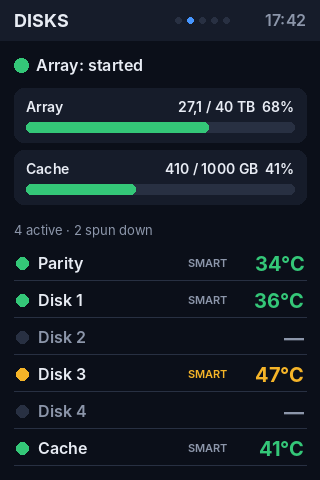
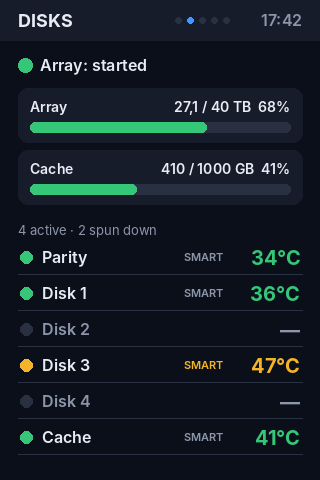
Ekrany LCD: margines 18 px od krawędzi (dół i prawa strona)
Uwaga z makiety: treść była za blisko dolnej i prawej krawędzi ekranu.

Claude-Session: https://claude.ai/code/session_01KdmNeRTRFZRJ18TRbeokR1

diff --git a/app/ekrany/rysuj.py b/app/ekrany/rysuj.py
@@ -9,6 +9,8 @@ from pathlib import Path
 from PIL import Image, ImageDraw, ImageFont
 
 W, H = 320, 480
+# Margines od krawędzi ekranu (ramka obudowy zasłania skrajne piksele).
+M = 18
 # Czcionka Inter (licencja OFL) z pakietu fonts-inter instalowanego w obrazie Dockera.
 FONT_DIR = os.environ.get("LCD_CZCIONKI", "/usr/share/fonts/opentype/inter/").rstrip("/") + "/"
 
@@ -77,8 +79,8 @@ def kolor_progu(wartosc, uwaga, alarm):
 
 def naglowek(d, tytul, indeks, dane):
     d.rectangle((0, 0, W, 40), fill=KOLORY["karta"])
-    d.text((14, 20), tytul, font=font(18, "Bold"), fill=KOLORY["tekst"], anchor="lm")
-    d.text((W - 14, 20), dane["godzina"], font=font(16, "SemiBold"), fill=KOLORY["szary"], anchor="rm")
+    d.text((M, 20), tytul, font=font(18, "Bold"), fill=KOLORY["tekst"], anchor="lm")
+    d.text((W - M, 20), dane["godzina"], font=font(16, "SemiBold"), fill=KOLORY["szary"], anchor="rm")
     # kropki widoków (który ekran z pięciu)
     for i in range(5):
         x = W // 2 + 18 + i * 12
@@ -105,77 +107,81 @@ def ekran_system(t, dane):
     img = Image.new("RGB", (W, H), KOLORY["tlo"]); d = ImageDraw.Draw(img)
     naglowek(d, t["system"], 0, dane)
     # duży wskaźnik CPU
-    luk(d, 92, 128, 64, dane["cpu"], kolor_progu(dane["cpu"], 70, 90))
-    d.text((92, 122), f"{dane['cpu']:.0f}%", font=font(34, "Bold"), fill=KOLORY["tekst"], anchor="mm")
-    d.text((92, 156), t["cpu"], font=font(14, "SemiBold"), fill=KOLORY["szary"], anchor="mm")
-    # temperatura CPU
+    luk(d, M + 74, 120, 60, dane["cpu"], kolor_progu(dane["cpu"], 70, 90))
+    d.text((M + 74, 114), f"{dane['cpu']:.0f}%", font=font(32, "Bold"), fill=KOLORY["tekst"], anchor="mm")
+    d.text((M + 74, 146), t["cpu"], font=font(14, "SemiBold"), fill=KOLORY["szary"], anchor="mm")
+    # temperatura CPU i czas pracy
     temp = dane["cpu_temp"]
     kt = kolor_progu(temp, 70, 85) if temp is not None else KOLORY["szary"]
-    karta(d, 178, 58, 128, 66)
-    d.text((190, 72), t["temp"] + " CPU", font=font(13), fill=KOLORY["szary"])
-    d.text((190, 92), f"{temp:.0f}°C" if temp is not None else "—", font=font(28, "Bold"), fill=kt)
-    karta(d, 178, 132, 128, 58)
-    d.text((190, 142), t["uptime"], font=font(13), fill=KOLORY["szary"])
-    d.text((190, 160), dane["uptime"], font=font(22, "Bold"), fill=KOLORY["tekst"])
+    x0 = W - M - 126
+    karta(d, x0, 54, 126, 62)
+    d.text((x0 + 12, 66), t["temp"] + " CPU", font=font(13), fill=KOLORY["szary"])
+    d.text((x0 + 12, 84), f"{temp:.0f}°C" if temp is not None else "—", font=font(26, "Bold"), fill=kt)
+    karta(d, x0, 124, 126, 56)
+    d.text((x0 + 12, 133), t["uptime"], font=font(13), fill=KOLORY["szary"])
+    d.text((x0 + 12, 151), dane["uptime"], font=font(21, "Bold"), fill=KOLORY["tekst"])
     # rdzenie
-    y0 = 206
-    n = len(dane["rdzenie"]); szer = (W - 28 - (n - 1) * 4) / n
+    y0, wys = 194, 36
+    n = len(dane["rdzenie"]); szer = (W - 2 * M - (n - 1) * 4) / n
     for i, v in enumerate(dane["rdzenie"]):
-        x = 14 + i * (szer + 4)
-        d.rectangle((x, y0, x + szer, y0 + 40), fill=KOLORY["linia"])
-        h = int(40 * v / 100)
-        d.rectangle((x, y0 + 40 - h, x + szer, y0 + 40), fill=kolor_progu(v, 70, 90))
+        x = M + i * (szer + 4)
+        d.rectangle((x, y0, x + szer, y0 + wys), fill=KOLORY["linia"])
+        h = int(wys * v / 100)
+        d.rectangle((x, y0 + wys - h, x + szer, y0 + wys), fill=kolor_progu(v, 70, 90))
     # wykres historii CPU
-    karta(d, 14, 258, W - 28, 64)
-    hist = dane["historia_cpu"]; krok = (W - 48) / (len(hist) - 1)
-    pkt = [(24 + i * krok, 312 - v * 0.5) for i, v in enumerate(hist)]
+    karta(d, M, 242, W - 2 * M, 58)
+    hist = dane["historia_cpu"]; krok = (W - 2 * M - 20) / (len(hist) - 1)
+    pkt = [(M + 10 + i * krok, 292 - v * 0.42) for i, v in enumerate(hist)]
     d.line(pkt, fill=KOLORY["akcent"], width=2)
     # RAM i SWAP
-    y = 336
-    d.text((14, y), t["ram"], font=font(15, "SemiBold"), fill=KOLORY["tekst"])
-    d.text((W - 14, y), f"{dane['ram_txt']}  {dane['ram']:.0f}%", font=font(15, "SemiBold"), fill=KOLORY["tekst"], anchor="ra")
-    pasek(d, 14, y + 24, W - 28, 12, dane["ram"], kolor_progu(dane["ram"], 80, 92))
-    y = 382
-    d.text((14, y), t["swap"], font=font(15, "SemiBold"), fill=KOLORY["szary"])
+    y = 314
+    d.text((M, y), t["ram"], font=font(15, "SemiBold"), fill=KOLORY["tekst"])
+    d.text((W - M, y), f"{dane['ram_txt']}  {dane['ram']:.0f}%", font=font(15, "SemiBold"), fill=KOLORY["tekst"], anchor="ra")
+    pasek(d, M, y + 24, W - 2 * M, 12, dane["ram"], kolor_progu(dane["ram"], 80, 92))
+    y = 364
+    d.text((M, y), t["swap"], font=font(15, "SemiBold"), fill=KOLORY["szary"])
     if dane.get("swap") is None:
-        d.text((W - 14, y), "—", font=font(15, "SemiBold"), fill=KOLORY["szary"], anchor="ra")
+        d.text((W - M, y), "—", font=font(15, "SemiBold"), fill=KOLORY["szary"], anchor="ra")
     else:
-        d.text((W - 14, y), f"{dane['swap']:.0f}%", font=font(15, "SemiBold"), fill=KOLORY["tekst"], anchor="ra")
+        d.text((W - M, y), f"{dane['swap']:.0f}%", font=font(15, "SemiBold"), fill=KOLORY["tekst"], anchor="ra")
     # load i sieć
-    karta(d, 14, 410, 140, 58); karta(d, 166, 410, 140, 58)
-    d.text((24, 418), t["load"], font=font(12), fill=KOLORY["szary"])
-    d.text((24, 438), "  ".join(liczba(v, t["_j"], 2) for v in dane["load"]), font=font(15, "SemiBold"), fill=KOLORY["tekst"])
-    d.text((176, 418), t["siec"], font=font(12), fill=KOLORY["szary"])
-    d.text((176, 434), f"↓ {dane['rx']}", font=font(13, "SemiBold"), fill=KOLORY["ok"])
-    d.text((176, 450), f"↑ {dane['tx']}", font=font(13, "SemiBold"), fill=KOLORY["akcent"])
+    szer = (W - 2 * M - 12) // 2
+    y = 400
+    karta(d, M, y, szer, 58); karta(d, W - M - szer, y, szer, 58)
+    d.text((M + 10, y + 8), t["load"], font=font(12), fill=KOLORY["szary"])
+    d.text((M + 10, y + 28), "  ".join(liczba(v, t["_j"], 2) for v in dane["load"]), font=font(15, "SemiBold"), fill=KOLORY["tekst"])
+    x = W - M - szer + 10
+    d.text((x, y + 8), t["siec"], font=font(12), fill=KOLORY["szary"])
+    d.text((x, y + 24), f"↓ {dane['rx']}", font=font(13, "SemiBold"), fill=KOLORY["ok"])
+    d.text((x, y + 40), f"↑ {dane['tx']}", font=font(13, "SemiBold"), fill=KOLORY["akcent"])
     return img
 
 
 def ekran_dyski(t, dane):
     img = Image.new("RGB", (W, H), KOLORY["tlo"]); d = ImageDraw.Draw(img)
     naglowek(d, t["dyski"], 1, dane)
-    d.ellipse((14, 58, 28, 72), fill=KOLORY["ok"])
-    d.text((36, 65), f"{t['array']}: {t['uruchomiony']}", font=font(16, "SemiBold"), fill=KOLORY["tekst"], anchor="lm")
+    d.ellipse((M, 58, M + 14, 72), fill=KOLORY["ok"])
+    d.text((M + 22, 65), f"{t['array']}: {t['uruchomiony']}", font=font(16, "SemiBold"), fill=KOLORY["tekst"], anchor="lm")
     for i, (nazwa, proc, txt) in enumerate([(t["array"], dane["array_uzycie"], dane["array_txt"]),
                                              (t["cache"], dane["cache_uzycie"], dane["cache_txt"])]):
         y = 88 + i * 62
-        karta(d, 14, y, W - 28, 54)
-        d.text((26, y + 10), nazwa, font=font(14, "SemiBold"), fill=KOLORY["tekst"])
-        d.text((W - 26, y + 10), f"{txt}  {proc}%", font=font(14, "SemiBold"), fill=KOLORY["tekst"], anchor="ra")
-        pasek(d, 26, y + 34, W - 52, 10, proc, kolor_progu(proc, 85, 95))
+        karta(d, M, y, W - 2 * M, 54)
+        d.text((M + 12, y + 10), nazwa, font=font(14, "SemiBold"), fill=KOLORY["tekst"])
+        d.text((W - M - 12, y + 10), f"{txt}  {proc}%", font=font(14, "SemiBold"), fill=KOLORY["tekst"], anchor="ra")
+        pasek(d, M + 12, y + 34, W - 2 * M - 24, 10, proc, kolor_progu(proc, 85, 95))
     aktywne = sum(1 for x in dane["dyski"] if x[3])
-    d.text((14, 222), f"{aktywne} {t['aktywne']} · {len(dane['dyski']) - aktywne} {t['uspione']}",
+    d.text((M, 222), f"{aktywne} {t['aktywne']} · {len(dane['dyski']) - aktywne} {t['uspione']}",
            font=font(13), fill=KOLORY["szary"])
     for i, (nazwa, temp, smart, aktywny) in enumerate(dane["dyski"]):
-        y = 246 + i * 37
-        d.line((14, y + 34, W - 14, y + 34), fill=KOLORY["linia"])
-        d.ellipse((16, y + 11, 28, y + 23), fill=KOLORY[smart] if aktywny else KOLORY["linia"])
-        d.text((38, y + 17), nazwa, font=font(16, "SemiBold"), fill=KOLORY["tekst"] if aktywny else KOLORY["szary"], anchor="lm")
+        y = 240 + i * 36
+        d.line((M, y + 34, W - M, y + 34), fill=KOLORY["linia"])
+        d.ellipse((M + 2, y + 11, M + 14, y + 23), fill=KOLORY[smart] if aktywny else KOLORY["linia"])
+        d.text((M + 24, y + 17), nazwa, font=font(16, "SemiBold"), fill=KOLORY["tekst"] if aktywny else KOLORY["szary"], anchor="lm")
         tekst = f"{temp}°C" if aktywny else "—"
         kolor = kolor_progu(temp, 45, 50) if aktywny else KOLORY["szary"]
-        d.text((W - 16, y + 17), tekst, font=font(20, "Bold"), fill=kolor, anchor="rm")
+        d.text((W - M - 2, y + 17), tekst, font=font(20, "Bold"), fill=kolor, anchor="rm")
         if aktywny:
-            d.text((W - 92, y + 17), "SMART", font=font(11, "SemiBold"),
+            d.text((W - M - 78, y + 17), "SMART", font=font(11, "SemiBold"),
                fill=KOLORY[smart] if smart != "ok" else KOLORY["szary"], anchor="rm")
     return img
 
@@ -184,24 +190,24 @@ def ekran_docker(t, dane):
     img = Image.new("RGB", (W, H), KOLORY["tlo"]); d = ImageDraw.Draw(img)
     naglowek(d, t["docker"], 2, dane)
     dz, wsz = dane["kontenery_dzialaja"], dane["kontenery_wszystkie"]
-    karta(d, 14, 54, W - 28, 84)
-    d.text((28, 64), t["kontenery"], font=font(14), fill=KOLORY["szary"])
-    d.text((28, 84), str(dz), font=font(44, "Bold"), fill=KOLORY["ok"])
-    d.text((100, 106), f"/ {wsz} {t['dzialaja']}", font=font(16, "SemiBold"), fill=KOLORY["szary"])
-    d.text((W - 28, 106), f"{wsz - dz} {t['zatrzymane']}", font=font(14, "SemiBold"), fill=KOLORY["uwaga"], anchor="ra")
+    karta(d, M, 54, W - 2 * M, 84)
+    d.text((M + 14, 64), t["kontenery"], font=font(14), fill=KOLORY["szary"])
+    d.text((M + 14, 84), str(dz), font=font(44, "Bold"), fill=KOLORY["ok"])
+    d.text((M + 86, 106), f"/ {wsz} {t['dzialaja']}", font=font(16, "SemiBold"), fill=KOLORY["szary"])
+    d.text((W - 2 * M, 106), f"{wsz - dz} {t['zatrzymane']}", font=font(14, "SemiBold"), fill=KOLORY["uwaga"], anchor="ra")
     for i, (nazwa, stan, cpu, ram) in enumerate(dane["kontenery"]):
         y = 150 + i * 40
-        d.line((14, y + 37, W - 14, y + 37), fill=KOLORY["linia"])
-        d.ellipse((16, y + 12, 28, y + 24), fill=KOLORY[stan])
-        d.text((38, y + 18), nazwa, font=font(16, "SemiBold"), fill=KOLORY["tekst"], anchor="lm")
-        d.text((W - 16, y + 18), ram, font=font(13), fill=KOLORY["szary"], anchor="rm")
-        d.text((W - 90, y + 18), f"{liczba(cpu, t['_j'])}%", font=font(14, "SemiBold"), fill=KOLORY["tekst"], anchor="rm")
-    y = 396
-    d.text((14, y), t["maszyny"], font=font(14), fill=KOLORY["szary"])
+        d.line((M, y + 37, W - M, y + 37), fill=KOLORY["linia"])
+        d.ellipse((M + 2, y + 12, M + 14, y + 24), fill=KOLORY[stan])
+        d.text((M + 24, y + 18), nazwa, font=font(16, "SemiBold"), fill=KOLORY["tekst"], anchor="lm")
+        d.text((W - M - 2, y + 18), ram, font=font(13), fill=KOLORY["szary"], anchor="rm")
+        d.text((W - M - 76, y + 18), f"{liczba(cpu, t['_j'])}%", font=font(14, "SemiBold"), fill=KOLORY["tekst"], anchor="rm")
+    y = 392
+    d.text((M, y), t["maszyny"], font=font(14), fill=KOLORY["szary"])
     for i, (nazwa, stan) in enumerate(dane["vm"]):
         yy = y + 24 + i * 26
-        d.ellipse((16, yy + 4, 26, yy + 14), fill=KOLORY[stan])
-        d.text((36, yy + 9), nazwa, font=font(15, "SemiBold"), fill=KOLORY["tekst"], anchor="lm")
+        d.ellipse((M + 2, yy + 4, M + 12, yy + 14), fill=KOLORY[stan])
+        d.text((M + 22, yy + 9), nazwa, font=font(15, "SemiBold"), fill=KOLORY["tekst"], anchor="lm")
     return img
 
 
@@ -215,10 +221,10 @@ def ekran_parity(t, dane):
     for i, (etyk, wart, kol) in enumerate([(t["predkosc"], dane["parity_predkosc"], KOLORY["tekst"]),
                                             (t["koniec"], dane["parity_eta"], KOLORY["tekst"]),
                                             (t["bledy"], str(dane["parity_bledy"]), KOLORY["ok"])]):
-        y = 314 + i * 52
-        karta(d, 14, y, W - 28, 44)
-        d.text((28, y + 22), etyk, font=font(15), fill=KOLORY["szary"], anchor="lm")
-        d.text((W - 28, y + 22), wart, font=font(22, "Bold"), fill=kol, anchor="rm")
+        y = 306 + i * 52
+        karta(d, M, y, W - 2 * M, 44)
+        d.text((M + 14, y + 22), etyk, font=font(15), fill=KOLORY["szary"], anchor="lm")
+        d.text((W - M - 14, y + 22), wart, font=font(22, "Bold"), fill=kol, anchor="rm")
     return img
 
 
@@ -232,10 +238,10 @@ def ekran_alerty(t, dane, puste=False):
         return img
     for i, (poziom, tytul, opis) in enumerate(dane["alerty"]):
         y = 56 + i * 82
-        karta(d, 14, y, W - 28, 72)
-        d.rounded_rectangle((14, y, 22, y + 72), radius=4, fill=KOLORY[poziom])
-        d.text((34, y + 14), tytul, font=font(19, "Bold"), fill=KOLORY[poziom])
-        d.text((34, y + 44), opis, font=font(14), fill=KOLORY["szary"])
+        karta(d, M, y, W - 2 * M, 72)
+        d.rounded_rectangle((M, y, M + 8, y + 72), radius=4, fill=KOLORY[poziom])
+        d.text((M + 20, y + 14), tytul, font=font(19, "Bold"), fill=KOLORY[poziom])
+        d.text((M + 20, y + 44), opis, font=font(14), fill=KOLORY["szary"])
     return img
 
 
